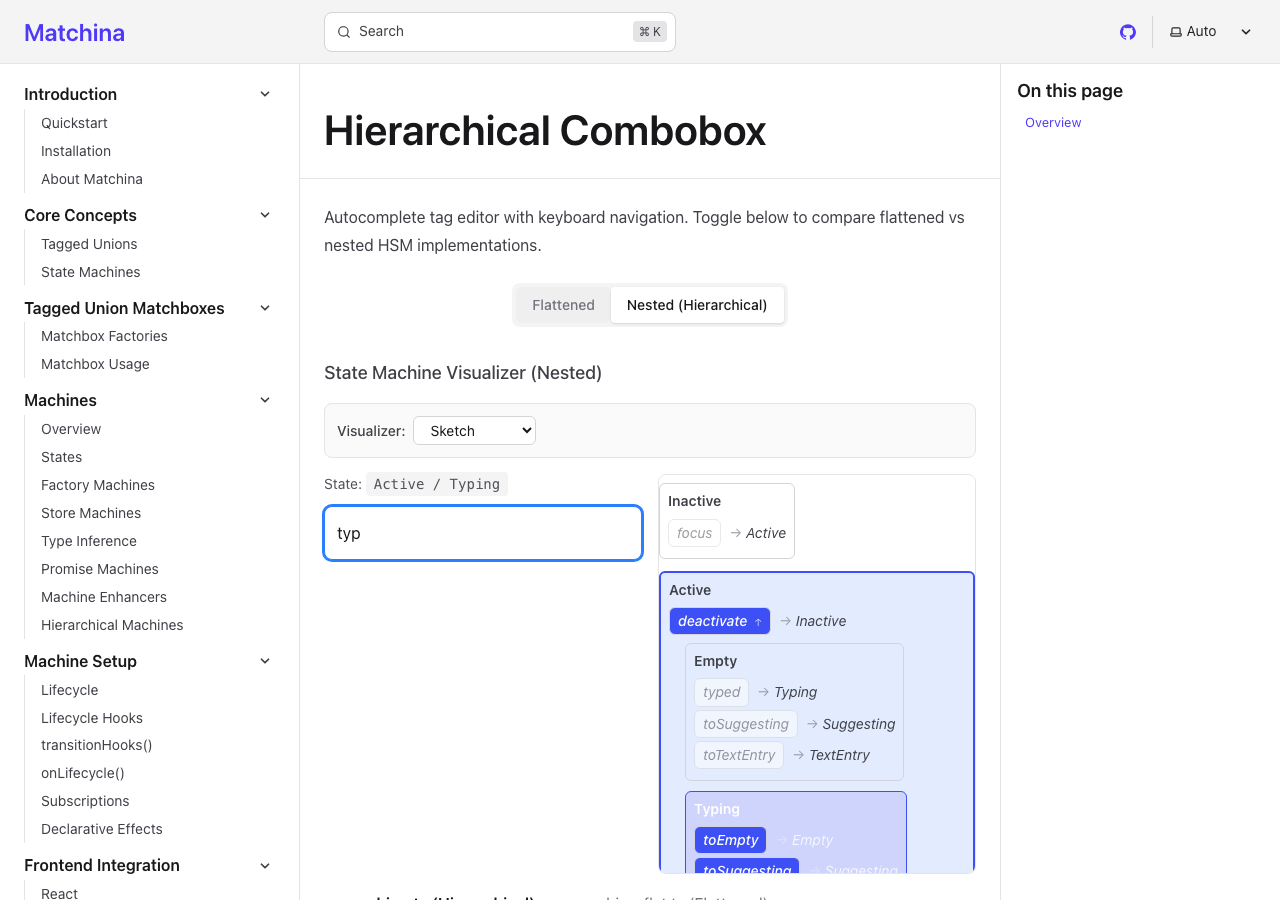
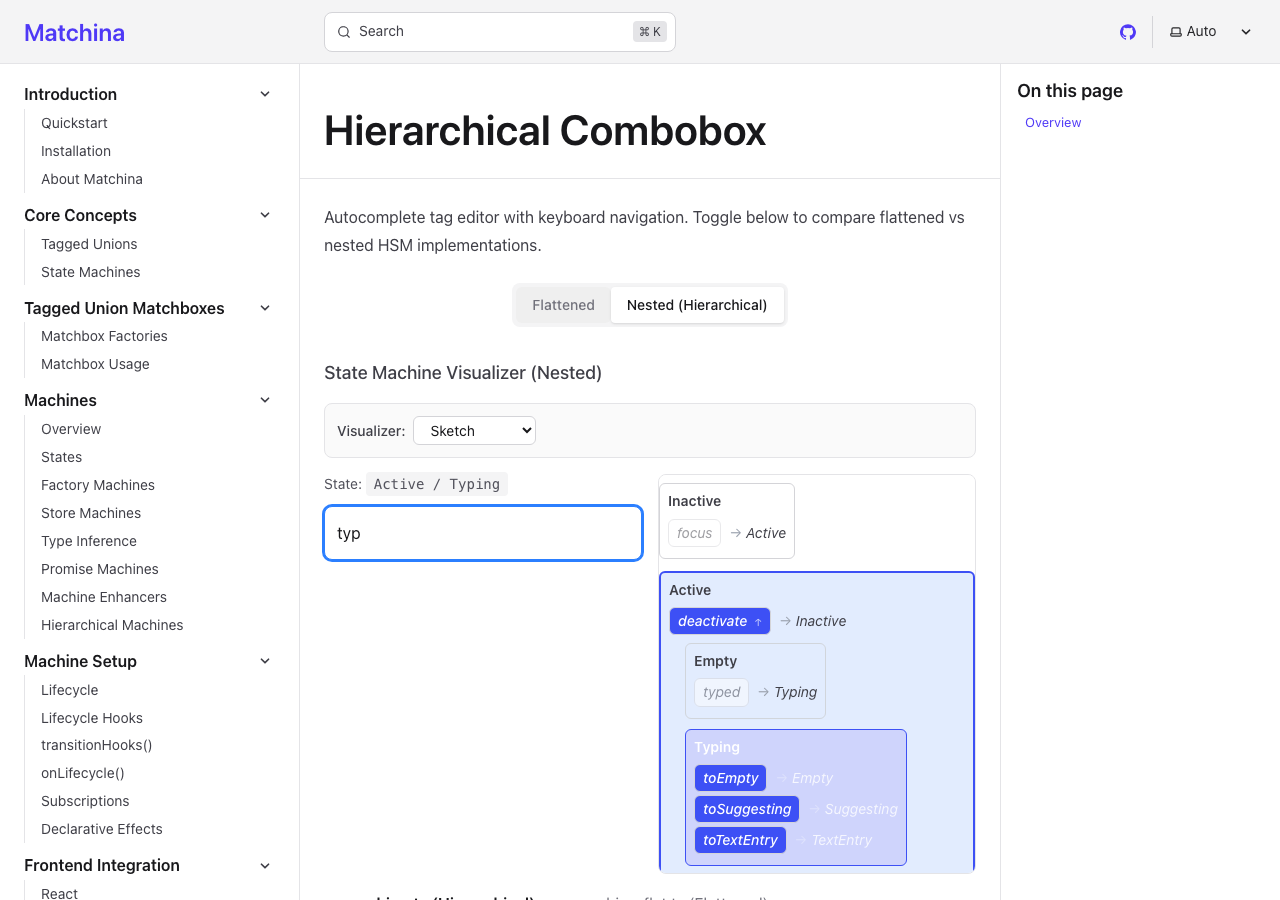
Fix Empty state to only have typed transition - remove extra transitions
**Fixed**:
- Removed toSuggesting and toTextEntry from Empty state
- Empty state now only has typed: 'Typing' as it should
- TextEntry state also cleaned up - removed toSuggesting
- Clean minimal transitions matching flat machine structure

**Result**:
- Empty state is now clean with only the necessary typed transition
- No redundant transitions that don't make sense
- Matches the flat machine's minimal approach

Changed region(s): [[0.5312, 0.7778, 0.6875, 0.9956]]

diff --git a/docs/src/code/examples/hsm-combobox/machine.ts b/docs/src/code/examples/hsm-combobox/machine.ts
@@ -32,8 +32,6 @@ function createActiveForApp() {
   return matchina(activeStates, {
     Empty: {
       typed: 'Typing',
-      toSuggesting: 'Suggesting',
-      toTextEntry: 'TextEntry',
     },
     Typing: {
       toEmpty: 'Empty',
@@ -43,7 +41,6 @@ function createActiveForApp() {
     TextEntry: {
       typed: 'Typing',
       clear: 'Empty',
-      toSuggesting: 'Suggesting',
     },
     Suggesting: {
       typed: 'Typing',